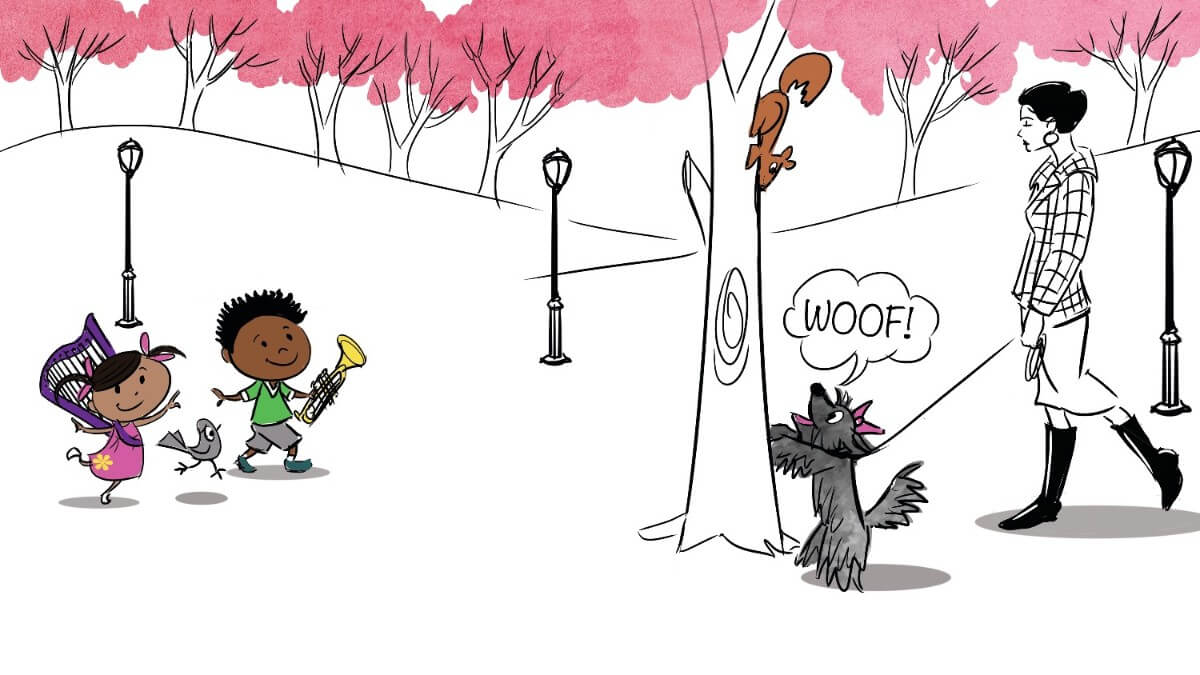
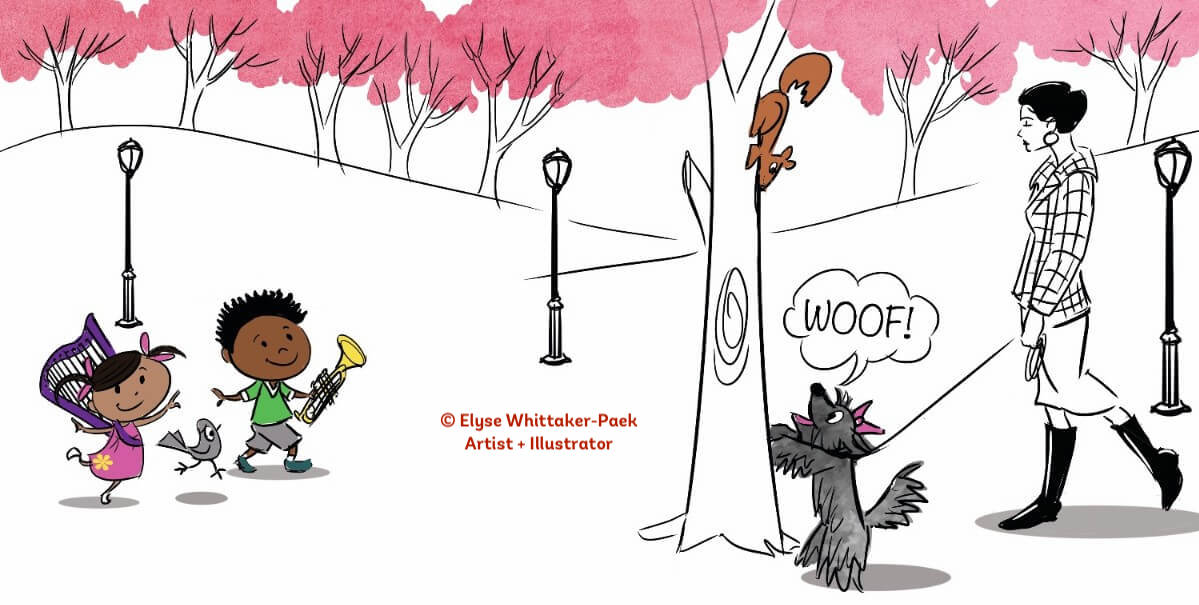
tweaks to index and css
added watermark to images and added padding to contact form text

diff --git a/index.html b/index.html
@@ -143,7 +143,7 @@ quotes:
       <!-- <p class="opening centered"> -->
       <p class="bio-text-opening">Thank you so much for stopping by!</p>
 
-      <p class="bio-text">I invite you to browse through this site to see examples of custom, hand-painted watercolor portraits of homes and pets, along with children's book illustrations &mdash; I would love to discuss your custom portrait or any illustration project you might have. </p>
+      <p class="bio-text">I invite you to browse through this site to see examples of custom, hand-painted watercolor portraits of homes, along with digital backgrounds for newborn photography and children's book illustrations &mdash; I would love to discuss your custom portrait or any illustration project you might have. </p>
 
       <p class="bio-text">With a BFA in Illustration, my professional experience includes character design, prop design, and storyboards, working for more than 10 years in the animation industry in Los Angeles, where I collaborated with creative teams at Warner Bros. and Nickelodeon studios. My credits include the feature film <i>Space Jam</i> and Nickelodeon TV shows such as "Dora the Explorer," "Hey Arnold," and "Oswald the Octopus."  </p>
 
@@ -186,7 +186,7 @@ quotes:
 <section class="home-gallery grid mobile-gallery-skim" id="homes">
 
   <h3 class="col-12 section-heading">Homes</h3>
-  <p class="col-12 gallery-text"><i>Click on any image to open the portrait gallery . . .</i></p>
+  <p class="col-12 gallery-text"><i>Click on any image to open the gallery . . .</i></p>
 
   {% for item in page.home-gallery limit:8 %}
 
@@ -265,7 +265,7 @@ quotes:
 <section class="children-gallery grid mobile-gallery-skim" id="children">
 
   <h3 class="col-12 section-heading">Children's Books</h3>
-  <p class="col-12 gallery-text"><i>Click on any image to open the portrait gallery . . .</i></p>
+  <p class="col-12 gallery-text"><i>Click on any image to open the gallery . . .</i></p>
 
   {% for item in page.children-gallery limit:8 %}
 

diff --git a/main.css b/main.css
@@ -691,7 +691,7 @@ nav .section-text {
   text-align: center;
   max-width: 80%;
   margin: auto;
-  padding: 0;
+  padding: 0 12%;
 }
 
 form {
